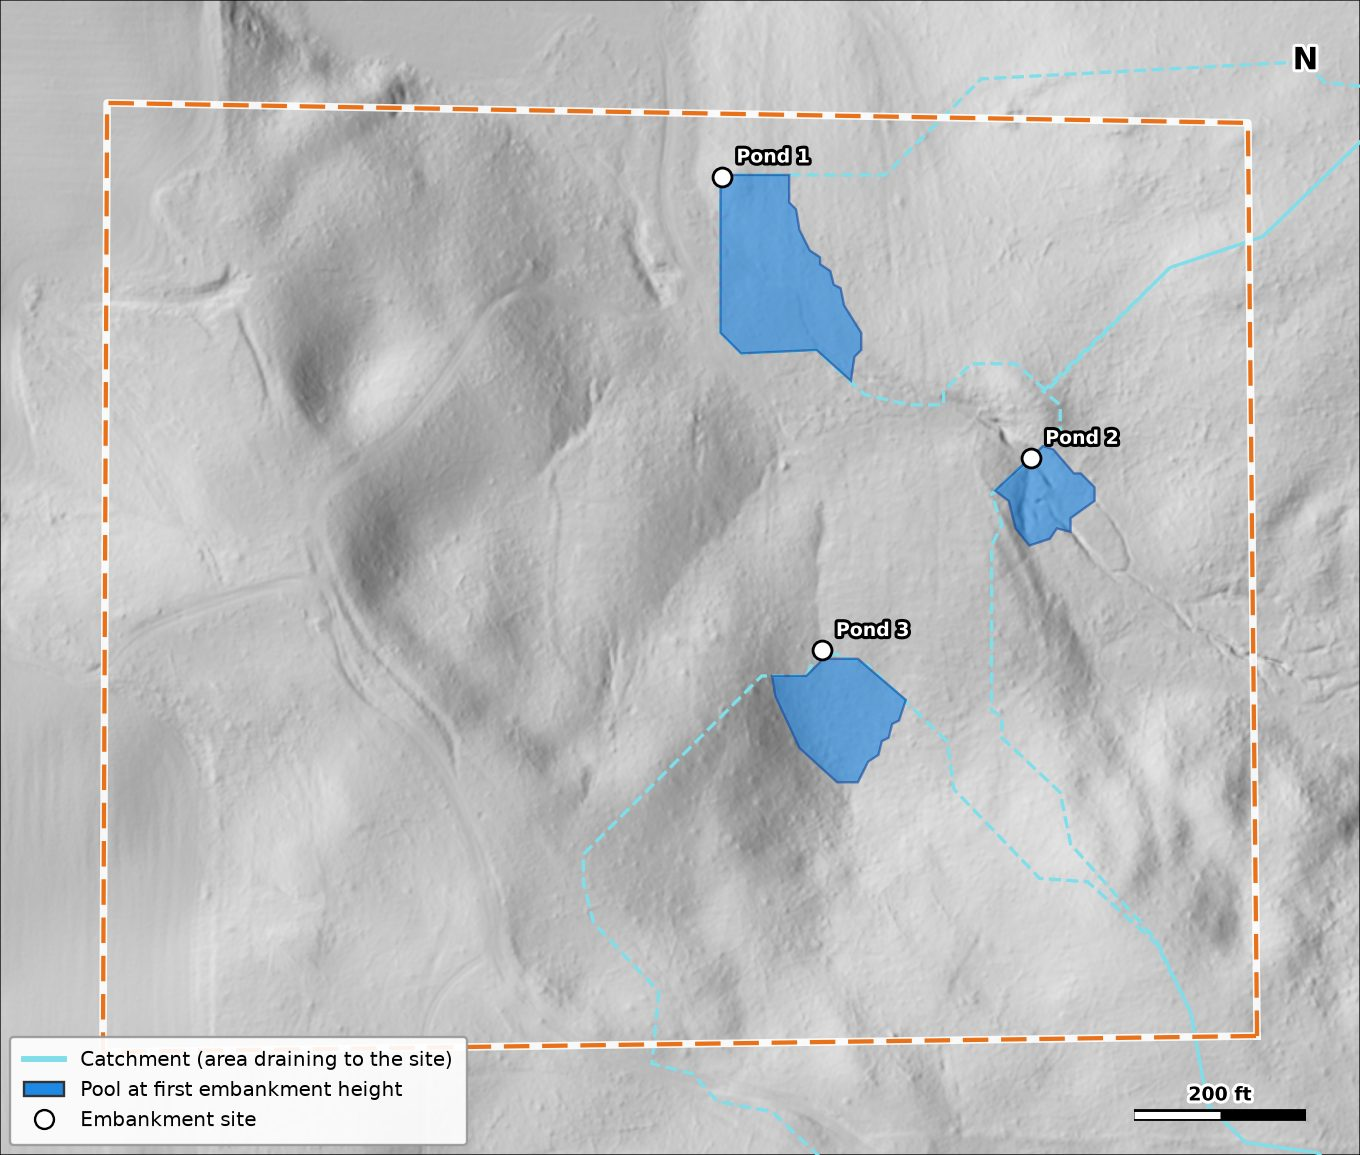
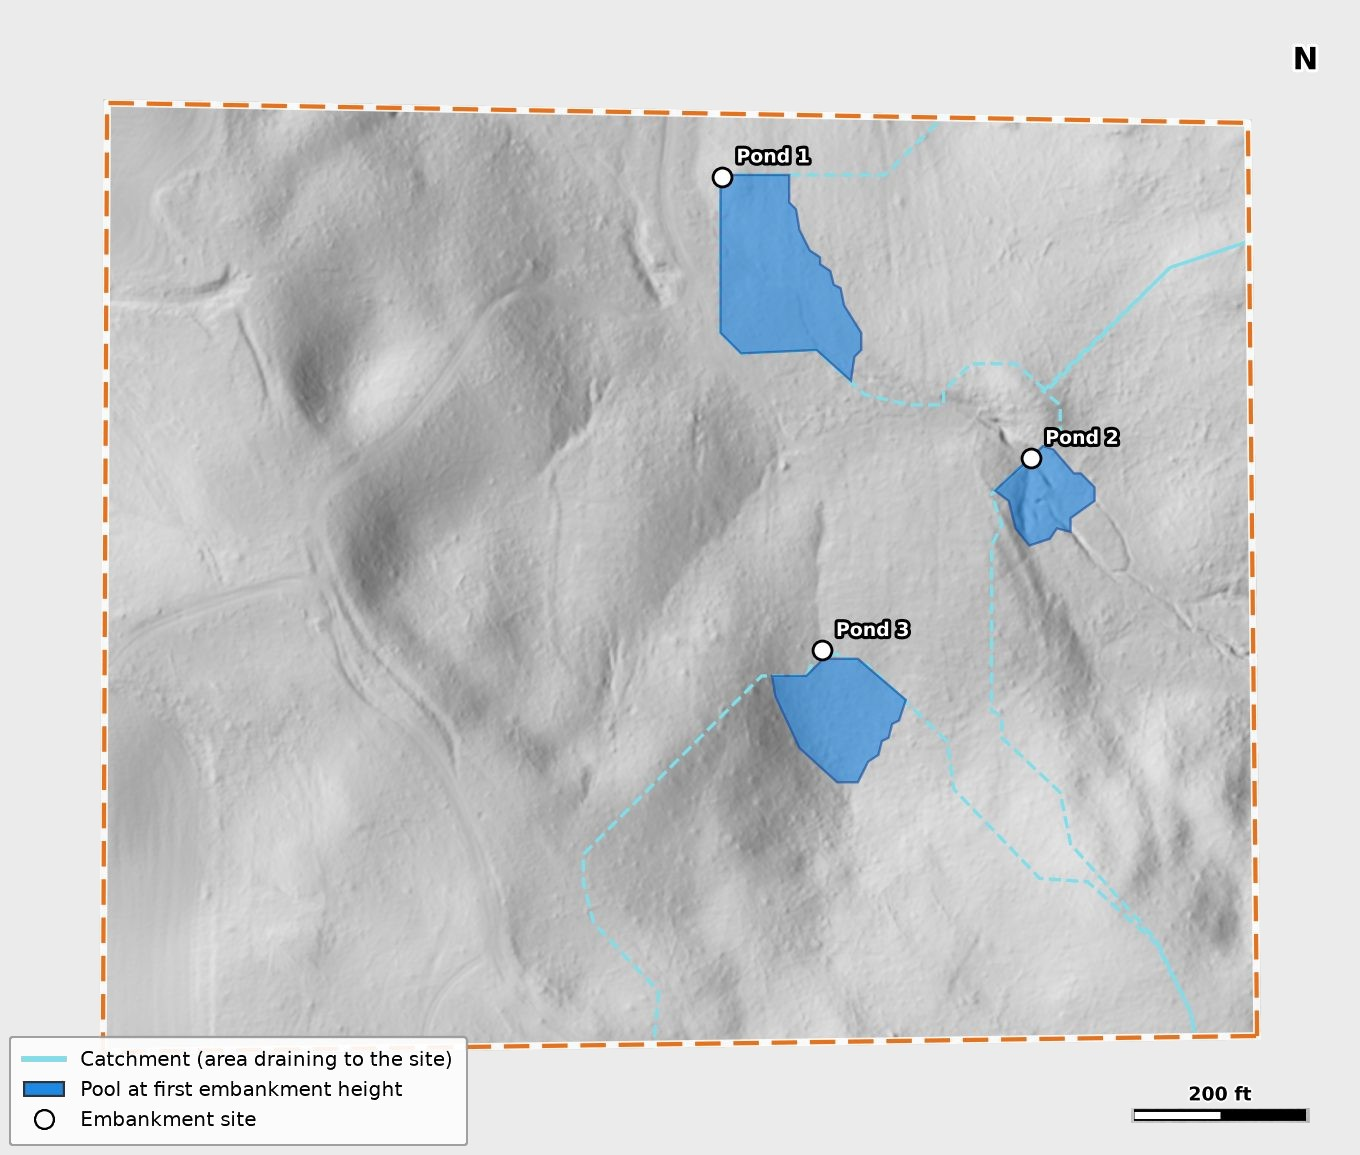
Hamele: clip the package page maps and the interactive map to the parcel shape, boundary line kept

Changed region(s): [[0.0, 0.0, 1.0, 1.0]]

diff --git a/hamele/map/index.html b/hamele/map/index.html
@@ -57,6 +57,8 @@ h3{margin:0;font-size:19px;font-weight:600}
 .stack img[hidden],.stack .vl[hidden],.stack .mkl[hidden],.stack .tl[hidden]{display:none}
 .stack .vl,.stack .mkl,.stack .tl,.stack .tw{position:absolute;inset:0;width:100%;height:100%;pointer-events:none;overflow:visible}
 .stack .tw img{position:absolute;width:auto;height:auto;inset:auto}
+/* everything but markers and the boundary line is clipped to the parcel shape */
+.stack>img,.stack>.tl,.stack>svg.vl:not([data-k="boundary"]),.stack>[data-k="contours"]{clip-path:polygon(98.356% 96.616%,97.592% 3.495%,1.806% 1.457%,1.458% 98.259%)}
 .stack .tl .tg{display:none}.mapwrap.z2 .stack .tl .tg{display:block}
 .mk{position:absolute;left:0;top:0;width:0;height:0;transform:scale(var(--inv,1));transform-origin:0 0}
 .mk>*{position:absolute;transform:translate(-50%,-50%)}
